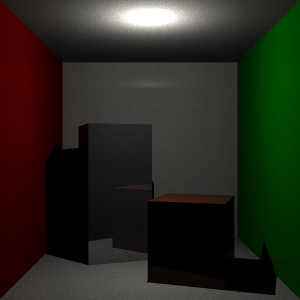
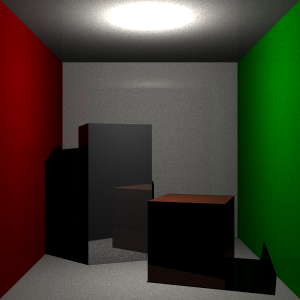
writeup

diff --git a/src/Ray.cpp b/src/Ray.cpp
@@ -7,7 +7,7 @@
 using namespace RayTracer;
 
 #define THREAD_NUM 8
-#define NUM_SAMPLES 1000
+#define NUM_SAMPLES 100
 #define LAMBDA 0.5f
 #define DIFFUSE 0.5f
 #define GLOBAL_ILLUM 1

diff --git a/RayTracer.md b/RayTracer.md
@@ -80,7 +80,7 @@ $$
 
 If $\lambda_1, \lambda_2, \lambda_3,t \ge 0$, we have an intersection with distance between $\textbf{p}_0$ and $\textbf{q}$ being $t$.
 
-There will be cases where there would be different geometry infront of each other, resulting in multiple intersections per ray. In that case, we can take the closes intersection as we don't need to worry about the geometry behind since it would be convered anyways and we don't need to display its color. Once we get the intersections, we can color the pixels based on the normal of the geometry and get a silhouette of the scene
+There will be cases where there would be different geometry in front of each other, resulting in multiple intersections per ray. In that case, we can take the closes intersection as we don't need to worry about the geometry behind since it would be covered anyways and we don't need to display its color. Once we get the intersections, we can color the pixels based on the normal of the geometry and get a silhouette of the scene
 
 ![silhouette](./screenshots/silhouette.png)
 
@@ -128,7 +128,7 @@ I am also in the process of implementing bounding volume hierarchies (BVH trees)
 
 ### Multisampling and Anti-Aliasing
 
-One thing that kept bothering me in the above render is the fact that the edges were always jagged and pixelated. Inorder to smoothen out the image, I would need more than one ray for each pixel to sample the surrounding area and average out the color values for the pixel. Instead of shooting a ray through the center of each pixel, I now shoot multiple rays randomized throught the square bounded by the pixel and average out the colors returned by them.
+One thing that kept bothering me in the above render is the fact that the edges were always jagged and pixelated. In order to smoothen out the image, I would need more than one ray for each pixel to sample the surrounding area and average out the color values for the pixel. Instead of shooting a ray through the center of each pixel, I now shoot multiple rays randomized through the square bounded by the pixel and average out the colors returned by them.
 
 ### Monte Carlo Path Tracing
 
@@ -146,7 +146,7 @@ $$
                 \ \ \ \ \ \ \ \ \ \ \ \ \ \ \ \ \ \ \ \ \ \ \ \  +
 (1-\lambda)^3\lambda \cdot\text{TotalColorFromPhotonsWithThreeBounce}_{ij} \\  \  + \ ... \ \ \ \ \ \ \ \ \ \ \ \ \ \ \ \ \ \ \ \ \ \ \ \ \ \ \ \ \ \ \ \ \ \ \ \ \ \ \ \ \ \ \ \ \ \ \ \ \ \ \ \ \ \ \ \ \ \ \ \ \ \ \ \ \ \ \ 
 $$
-Note that because we introduce the term $(1-\lambda)^{n-1} \lambda$, we will have to multiply the Color from each path by the factor of $\frac{1}{(1-\lambda)^n\lambda}$ inorder for the function to unfold into the original formula.
+Note that because we introduce the term $(1-\lambda)^{n-1} \lambda$, we will have to multiply the Color from each path by the factor of $\frac{1}{(1-\lambda)^n\lambda}$ in order for the function to unfold into the original formula.
 
 ### Global Illumination
 
@@ -226,7 +226,7 @@ All the materials in the Cornell Box thus far have been perfectly lambertian mat
   <figcaption> Left and Middle: Silver tall box = 1, Right: Reflective Walls (with light attenuation)</figcaption>
 </figure>
 
-In the image on the left, you can very clearly see the almost perfect reflective surface of the tall box showing a mirrored image of the wooden short box infront of it. The middle image has the tall box slight rotated so that you can see the green wall also reflected onto it. The right image has every surface being slightly reflective, and you can see the recursive "infinite reflection" phenomonon happening as the tall box reflects the shortbox, along with all the reflections between them. The walls now show the reflections of the room tinted according to their material color.
+In the image on the left, you can very clearly see the almost perfect reflective surface of the tall box showing a mirrored image of the wooden short box infront of it. The middle image has the tall box slight rotated so that you can see the green wall also reflected onto it. The right image has every surface being slightly reflective, and you can see the recursive "infinite reflection" phenomenon happening as the tall box reflects the short-box, along with all the reflections between them. The walls now show the reflections of the room tinted according to their material color.
 
 #### Comparisons Against Rasterized Image
 
